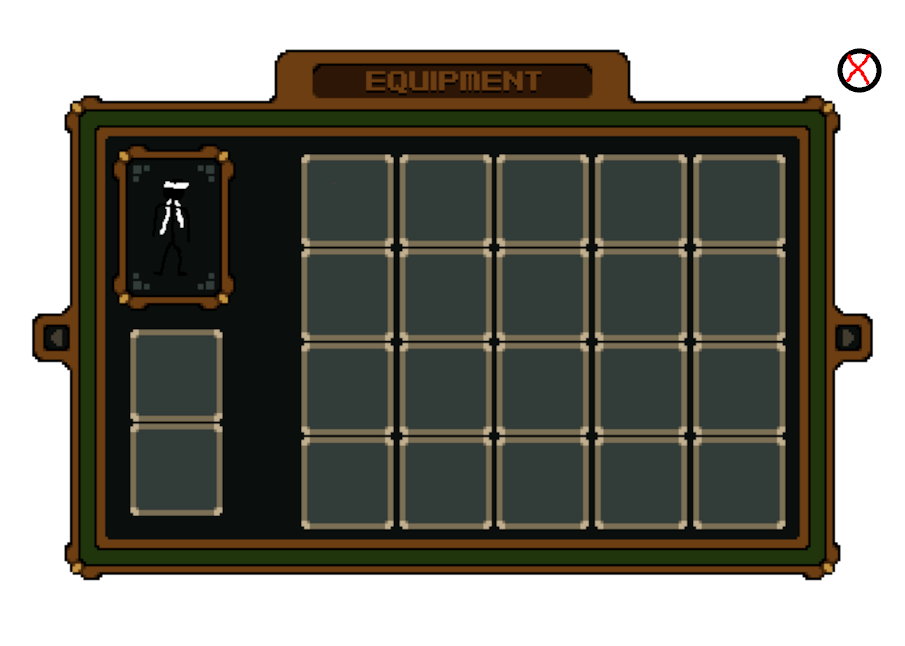
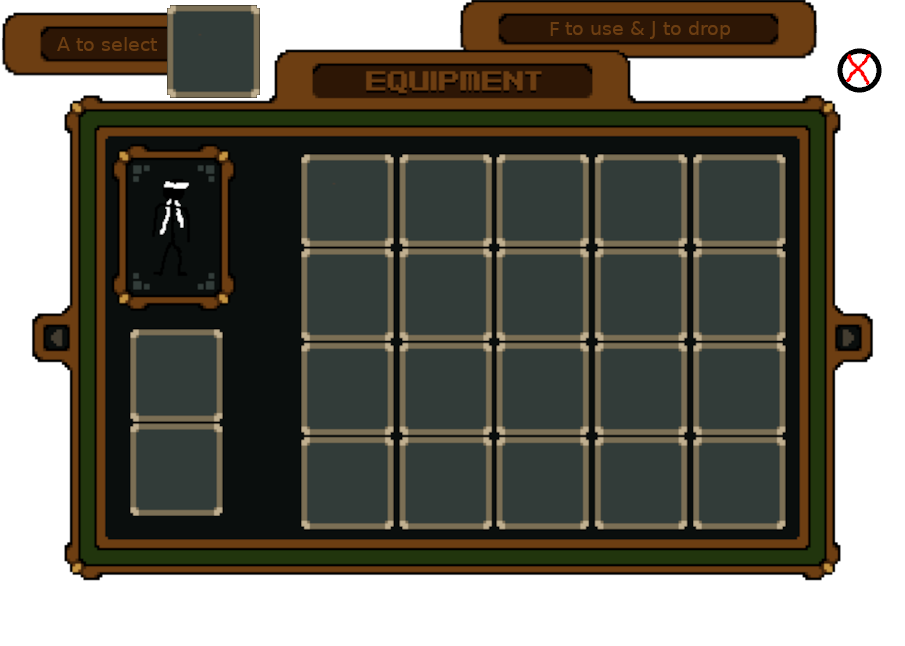
[ADD] équip armor

Changed region(s): [[0.0, 0.0, 0.3094, 0.1548], [0.495, 0.0, 0.9282, 0.0929]]

diff --git a/src/inventory/open_inventory.c b/src/inventory/open_inventory.c
@@ -9,6 +9,7 @@
 #include "window_fonction.h"
 #include "gameplay/inventoryfile.h"
 #include <stdio.h>
+#include "str.h"
 
 void init_inventory(inventory *inv)
 {
@@ -22,7 +23,7 @@ void init_inventory(inventory *inv)
     sfSprite_setTexture(inv->inventory_sp_item, inv->inventory_te_item, sfTrue);
 }
 
-void set_and_draw(the_window *windows, sfVector2f view)
+void set_and_draw(the_window *windows, const int position_cursor, char **item_select, const int key_press)
 {
     sfSprite_setOrigin(windows->inv->inventory_sprite, (sfVector2f){452, 323});
     sfRenderWindow_clear(windows->window, sfBlack);
@@ -33,36 +34,95 @@ void set_and_draw(the_window *windows, sfVector2f view)
         {(windows->scene->player->inventaire[i] - 33) * 90, 0, 90, 90});
         sfSprite_setPosition(windows->inv->inventory_sp_item, inventory_space[i]);
         sfRenderWindow_drawSprite(windows->window, windows->inv->inventory_sp_item, NULL);
+        if (i == position_cursor) {
+            if (key_press == SELECT_KEY)
+                *item_select = &windows->scene->player->inventaire[i];
+            sfSprite_setTextureRect(windows->inv->inventory_sp_item, (sfIntRect)\
+            {(26) * 90, 0, 90, 90});
+            sfRenderWindow_drawSprite(windows->window, windows->inv->inventory_sp_item, NULL);
+        }
     }
+    sfSprite_setTextureRect(windows->inv->inventory_sp_item, (sfIntRect)\
+    {(**item_select - 33) * 90, 0, 90, 90});
+    sfSprite_setPosition(windows->inv->inventory_sp_item, selec_space);
+    sfRenderWindow_drawSprite(windows->window, windows->inv->inventory_sp_item, NULL);
     sfRenderWindow_display(windows->window);
 }
 
-void verif_close(the_window *windows)
+void verif_key(the_window *windows, int *key_press)
 {
-    if (windows->event.key.code == sfKeyE)
-        windows->state = 0;
+    if (windows->event.type == sfEvtKeyPressed) {
+        if (windows->event.key.code == sfKeyE)
+            windows->state = 0;
+        if (windows->event.key.code == sfKeyA)
+            *key_press = SELECT_KEY;
+        if (windows->event.key.code == sfKeyF)
+            *key_press = USE_KEY;
+        if (windows->event.key.code == sfKeyJ)
+            *key_press = DROP_KEY;
+    }
+}
+
+int cursor_move(the_window *windows)
+{
+    if (windows->event.type == sfEvtClosed)
+        sfRenderWindow_close(windows->window);
+    if (windows->event.type == sfEvtKeyPressed && windows->event.key.code == sfKeyD)
+        return (1);
+    if (windows->event.type == sfEvtKeyPressed && windows->event.key.code == sfKeyQ)
+        return (-1);
+    if (windows->event.type == sfEvtKeyPressed && windows->event.key.code == sfKeyS)
+        return (5);
+    if (windows->event.type == sfEvtKeyPressed && windows->event.key.code == sfKeyZ)
+        return (-5);
+    return (0);
+}
+
+void switch_in_invantory(char *a, char *b)
+{
+    char c = *a;
+    *a = *b;
+    *b = c;
+}
+
+void use_item(const int key_press, char *item_select, the_window *windows, int position_cursor)
+{
+    switch_in_invantory(item_select, &windows->scene->player->inventaire[position_cursor]);
+}
+
+void use_and_drop_item(const int key_press, char *item_select, the_window *windows, int position_cursor)
+{
+    if (key_press == DROP_KEY)
+        *item_select = '!';
+    if (key_press == USE_KEY)
+        use_item(key_press, item_select, windows, position_cursor);
 }
 
 float inventory_scene(int **tab_stock, the_window *windows)
 {
-    sfEvent *test;
-    sfMouseButton mouse;
+    char basic_char = '!';
+    char *item_select = &basic_char;
+    int key_press = 0;
+    int position_cursor = 0;
     sfClock *timed = sfClock_create();
     sfVector2f camera_center = sfView_getCenter(windows->camera);
     sfView_setCenter(windows->camera, (sfVector2f){0, 0});
     sfRenderWindow_setView(windows->window, windows->camera);
 
-    while (windows->state == 1) {
-        set_and_draw(windows, camera_center);
+    while (windows->state == 1 && sfRenderWindow_isOpen(windows->window)) {
+        printf("%d\n", key_press);
+        set_and_draw(windows, position_cursor, &item_select, key_press);
+        use_and_drop_item(key_press, item_select, windows, position_cursor);
+        key_press = 0;
         while (sfRenderWindow_pollEvent(windows->window, &windows->event)) {
-            if (windows->event.type == sfEvtClosed)
-                sfRenderWindow_close(windows->window);
-            if (windows->event.type == sfEvtMouseButtonPressed)
+            position_cursor += cursor_move(windows);
+            if (windows->event.type == sfEvtMouseButtonPressed) {
                 printf("%f\t\t%f\n", sfRenderWindow_mapPixelToCoords(windows->window, sfMouse_getPositionRenderWindow(windows->window), windows->camera).x, sfRenderWindow_mapPixelToCoords(windows->window, sfMouse_getPositionRenderWindow(windows->window), windows->camera).y);
-            if (windows->event.type == sfEvtKeyPressed) {
-                verif_close(windows);
             }
+            verif_key(windows, &key_press);
         }
+        if (position_cursor < 0 || position_cursor > 21)
+            position_cursor = 0;
     }
     sfView_setCenter(windows->camera, camera_center);
     float save = time_to_float(timed);

diff --git a/include/gameplay/inventoryfile.h b/include/gameplay/inventoryfile.h
@@ -10,10 +10,22 @@
 
 #include <SFML/Graphics.h>
 
+#define USE_KEY 1
+#define SELECT_KEY 2
+#define DROP_KEY 3
+
 const sfVector2f inventory_space[] = {{-139, -158}, {-41, -158}, {57, -158}, {155, -158}, {253, -158}\
 , {-139, -62}, {-41, -62}, {57, -62}, {155, -62}, {253, -62}\
 , {-139, 34}, {-41, 34}, {57, 34}, {155, 34}, {253, 34}\
 , {-139, 130}, {-41, 130}, {57, 130}, {155, 130}, {253, 130}\
 , {-310, 17}, {-310, 113}};
+
+const sfVector2f selec_space = {-282, -316};
+
+const char food_list[] = {34, '#', '$'};
+
+const char armor_list[] = {37, '&'};
+
+const char gun_list[] = {39, 40};
 
 #endif /* !INVENTORYFILE_H_ */

diff --git a/lib/src/my_str/src/c_is_in_str.c b/lib/src/my_str/src/c_is_in_str.c
@@ -1,0 +1,15 @@
+/*
+** EPITECH PROJECT, 2021
+** B-MUL-200-BDX-2-1-myrpg-louis.pavlovsky
+** File description:
+** c_is_in_str
+*/
+
+int c_is_in_str(char c, char *str)
+{
+    for (int i = 0; str[i] != '\0'; i += 1) {
+        if (str[i] == c)
+            return (1);
+    }
+    return (0);
+}

diff --git a/lib/src/include/str.h b/lib/src/include/str.h
@@ -35,5 +35,6 @@ char *int_to_str(int nb);
 char *my_strcat(const char *dest, const char *str);
 int str_is_num(const char *str);
 void free_char_tab(char **tab);
+int c_is_in_str(char c, char *str);
 
 #endif /* !STR_H_ */
